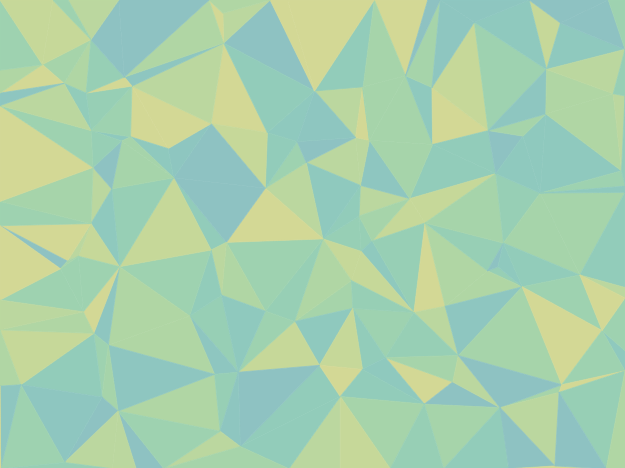
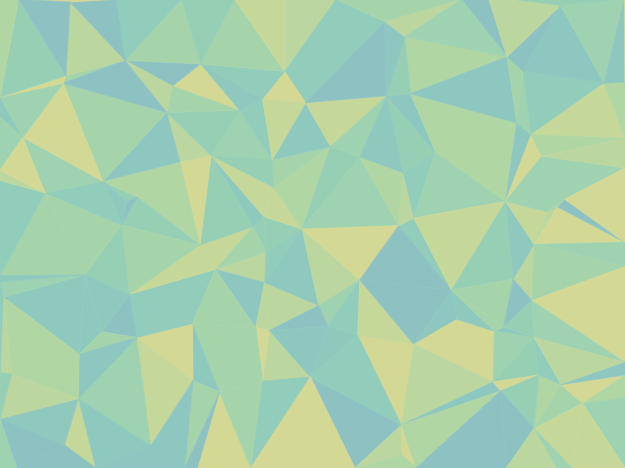
WORK section project name formatting

diff --git a/index.html b/index.html
@@ -1,5 +1,6 @@
 <!DOCTYPE html>
 <html lang="en">
+
 <head>
     <meta charset="UTF-8">
     <meta http-equiv="X-UA-Compatible" content="IE=edge">
@@ -14,7 +15,7 @@
         <h1>J. Bradley Whittington</h1>
         <nav>
             <ul>
-                <li> 
+                <li>
                     <a href="#about-me">about me</a>
                 </li>
                 <li>
@@ -29,52 +30,58 @@
 
     <!-- about me -->
     <section id="about-me" class="about-me">
-        <div>
-            <img src="./assets/images/impressionist-muir-woods.png" alt="An impressionist styled selfie taken in Muir Woods">
-            <div class="about-me-text"> 
+        <div class="about-me-container">
+            <img src="./assets/images/impressionist-muir-woods.png"
+                alt="An impressionist styled selfie taken in Muir Woods">
+            <div class="about-me-text">
                 <h2 class="heading">about me.</h2>
-                <p class="paragraph">Lorem ipsum, dolor sit amet consectetur adipisicing elit. Quis quidem laboriosam recusandae nulla enim iusto quaerat expedita cupiditate. Architecto non, cum officiis debitis reprehenderit veniam ipsum vel saepe at nisi.</p>       
+                <p class="paragraph">Lorem ipsum, dolor sit amet consectetur adipisicing elit. Quis quidem laboriosam
+                    recusandae nulla enim iusto quaerat expedita cupiditate. Architecto non, cum officiis debitis
+                    reprehenderit veniam ipsum vel saepe at nisi.</p>
             </div>
         </div>
     </section>
 
     <!-- my work -->
     <section id="my-work" class="my-work">
-        <div>
-            <h2>my work.</h2>
-            <div class="project">
-                <img src="./assets/images/runbuddy-screenshot.png" alt="Homepage of Horiseon, J. Bradley Whittington's first website">
-                <div class="project-name">    
-                    <h3>RUN BUDDY</h3>
-                    <p>HTML, CSS</p>
+        <div class="my-work-container">
+            <figure class="project project-1">
+                <img src="./assets/images/runbuddy-screenshot.png"
+                    alt="Homepage of Horiseon, J. Bradley Whittington's first website">
+                <div class="project-name">
+                    <h3>RUN BUDDY - <span>HTML, CSS</span></h3>
                 </div>
-            </div>    
-            <div class="project">    
-                <img src="./assets/images/horiseon-screenshot.png" alt="Manicured hands with colorful nail art">
-                <div class="project-name">    
-                    <h3>HORISEON</h3>
-                    <p>HTML, CSS</p>
-                </div>
-            </div>    
-            <div class="project">    
+            </figure>
+            <figure class="project project-2">
+                <img src="./assets/images/horiseon-screenshot.png"
+                    alt="Homepage of Horiseon, J. Bradley Whittington's first website">
+                <figcaption class="project-name">
+                    <h3>HORISEON - <span>HTML, CSS</span></h3>
+                </figcaption>
+            </figure>
+            <figure class="project project-3">
                 <img src="./assets/images/placeholder-2.jpg" alt="An X-MEN comic book being selected from a box of comics">
-                <div class="project-name">    
-                    <h3>PLACEHOLDER 3</h3>
-                    <p>HTML, CSS</p>
+                <div class="project-name">
+                    <h3>PLACEHOLDER - <span>HTML, CSS</span></h3>
                 </div>
-            </div>    
-            <div class="project">    
+            </figure>
+            <figure class="project project-4">
                 <img src="./assets/images/placeholder-3.jpg" alt="Classical musicians in rehearsal">
-                <div class="project-name">    
-                    <h3>PLACEHOLDER 4</h3>
-                    <p>HTML, CSS, JS</p>
+                <div class="project-name">
+                    <h3>PLACEHOLDER - <span>HTML, CSS</span></h3>
                 </div>
-            </div>
+            </figure>
+            <figure class="project project-5">
+                <img src="./assets/images/placeholder-2.jpg" alt="Classical musicians in rehearsal">
+                <div class="project-name">
+                    <h3>PLACEHOLDER - <span>HTML, CSS</span></h3>
+                </div>
+            </figure>
         </div>
     </section>
 
     <!-- contact me -->
-    <section id="contact-me">
+    <section id="contact-me" class="contact-me">
         <h2>contact me.</h2>
         <div>
             <h3>Email:</h3>
@@ -94,5 +101,12 @@
         </div>
     </section>
 
+    <!-- footer -->
+    <footer class="footer">
+        <h2>made with ❤ by J. Bradley Whittington</h2>
+
+    </footer>
+
 </body>
+
 </html>

diff --git a/assets/style.css b/assets/style.css
@@ -25,7 +25,7 @@ body {
 header {
     padding: 20px 35px;
     margin-bottom: 10px;
-    background-image: url(./images/low-poly-grid-haikei.png);
+    background-image: url(./images/low-poly-grid-haikei-flip.png);
     background-repeat: no-repeat;
     background-size: cover;
     color: var(--secondary-color);
@@ -59,25 +59,26 @@ header nav ul li a {
 
 
 /* ABOUT ME BEGIN */
-.about-me div {
+.about-me {
     margin-bottom: 10px;
     background-color: var(--tertiary-color);
+}
+
+.about-me-container {
     padding: 15px;
     display: flex;
     flex-wrap: wrap;
-    justify-content: flex-start;
-    align-items: flex-end;
+    justify-content: space-between;
+    align-items: baseline;
 }
 
 .about-me img {
-    flex: 1;
     max-width: 400px;
 }
 
-.about-me div {
-    flex: 1;
+.about-me-text {
+    
 }
-
 
 .heading {
     font-size: 32px;
@@ -94,37 +95,33 @@ header nav ul li a {
 
 /* MY WORK BEGIN */
 .my-work {
-    padding: 15px;
+    padding: 25px;
     background-image: url(./images/blurry-gradient-haikei.png);
     background-size: cover;
     background-repeat: no-repeat;
+    margin-bottom: 10px;
 }
 
-.my-work div {
+.my-work-container {
     display: flex;
     flex-wrap: wrap;
-    justify-content: center;
-    align-items: center;
-    margin-bottom: 10px;    
-}
-
-.my-work h2 {
-    font-size: 32px;
+    justify-content: space-around;
+    align-content: flex-start;
+     
 }
 
 .project {
     border: 1px solid var(--primary-color);
-    margin-bottom: 10px;
-    flex: 1;
+    position: relative;
 }
 
 .project img {
-    position: relative;
-    max-width: 400px;
+    width: 500px;
+    margin: 10px;
 }
 
-.project-1 {
-    flex: 5;
+.project-1 img {
+    width: 700px;
 }
 
 .project-name {
@@ -132,28 +129,42 @@ header nav ul li a {
     border: 1px solid var(--secondary-color);
     background-color: var(--secondary-color);
     color: var(--tertiary-color);
+    font-size: 24px;
     position: absolute;
-    
-   
+    bottom: 0;
+    right: 0;
+    margin: 10px;
 }
 
-.project-name h3 {
-    
+.project-name span {
+    font-weight: lighter;
 }
-
 
 /* MY WORK END */
 
 /* CONTACT ME BEGIN */
 .contact-me {
+    background-color: var(--tertiary-color);
+    padding: 15px;
     display: flex;
     flex-wrap: wrap;
     justify-content: center;
     align-items: center;
-    border: 2px solid var(--primary-color);
     margin-bottom: 10px;
 }
 /* CONTACT ME END */
+
+
+/* FOOTER BEGIN */
+.footer {
+    padding: 20px 35px;
+    margin-bottom: 10px;
+    background-image: url(./images/low-poly-grid-haikei.png);
+    background-repeat: no-repeat;
+    background-size: cover;
+    color: var(--secondary-color)
+}
+/* FOOTER END */
 
 /* UTILITY */
 img {
